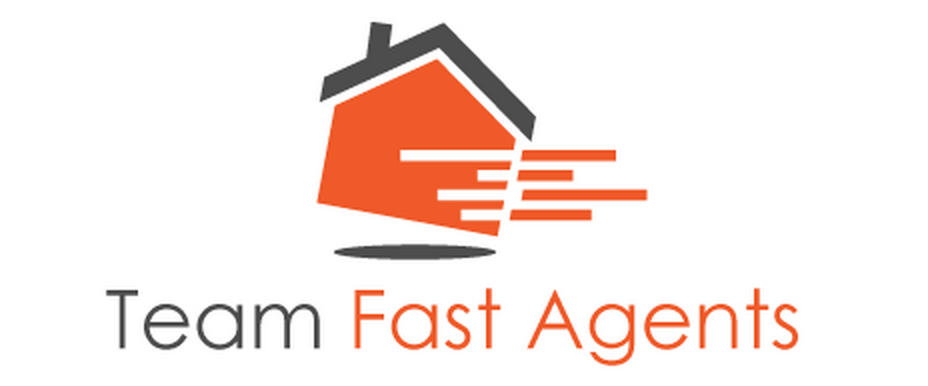
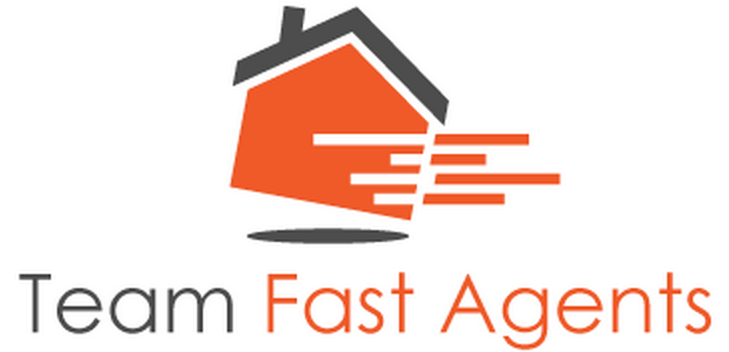
map

Changed region(s): [[0.0302, 0.75, 0.9959, 1.0], [0.3018, 0.0, 0.7846, 0.7188]]

diff --git a/css/style.css b/css/style.css
@@ -25,12 +25,28 @@
 }
 
 .headerlogo {
-	width: 100%;
+	width: 75%;
 	height: auto;
 }
 
 .blackblock {
 	background-color: #000000;
+	color: #ffffff;
+	max-width: 300px;
+	margin: 0 auto;
+	padding: 5px;
+}
+
+.blueblock {
+	background-color: #2980b9;
+	color: #ffffff;
+	max-width: 300px;
+	margin: 0 auto;
+	padding: 5px;
+}
+
+.greenblock {
+	background-color: #1abc9c;
 	color: #ffffff;
 	max-width: 300px;
 	margin: 0 auto;

diff --git a/index.php b/index.php
@@ -81,9 +81,10 @@
 							<img class="headerlogo" src="images/teamfastagents.jpg" alt="" />
 
 							<header>
-								<h2 class="alt">Thinking about selling <span class="blackblock"> 45 Trestle Drive? </span> Let us help! This is YOUR personal team of professionals. Whether you have questions about purchasing or selling, you can rest assured when you have your own Team of Fast Agents backing you.</h2>
+								<h3 class="alt">Thinking about selling <span class="blackblock"> 45 Trestle Drive?</span> Let us help! Team Fast Agents is YOUR personal team of professionals who makes Real Estate <span class="blueblock">EASY</span> for <span class="greenblock">YOU.</span></h3>
 							</header>
-
+							<iframe src="http://mapsengine.google.com/map/embed?mid=zERNb6ZQT6mM.kvWX6H8LeZas" width="80%" height="480"></iframe>
+							<h3><span class="blackblock">Results.</span> Period.</h3>
 							<footer>
 								<a href="#portfolio" class="button scrolly">More info</a>
 							</footer>
@@ -164,6 +165,8 @@
 								</div>
 							</div>
 							<br>
+							<a href="http://www.trulia.com/profile/KennyTruong/"><img src="http://www.trulia.com/profile/badge/1358038/trulia_profile_v05_green.png" width="160" height="35" border="0" alt="#FASTAGENT | KENNY TRUONG - Agent at MICHAEL JAMES Real Estate" /></a>
+							<br />
 							<a href="images/zillow.jpg" class="image full fancybox"><img style="width: 100%;" src="images/zillow.jpg" /></a>
 							<br>
 							<a href="images/youtube.jpg" class="image full fancybox"><img style="width: 100%;" src="images/youtube.jpg" /></a>
